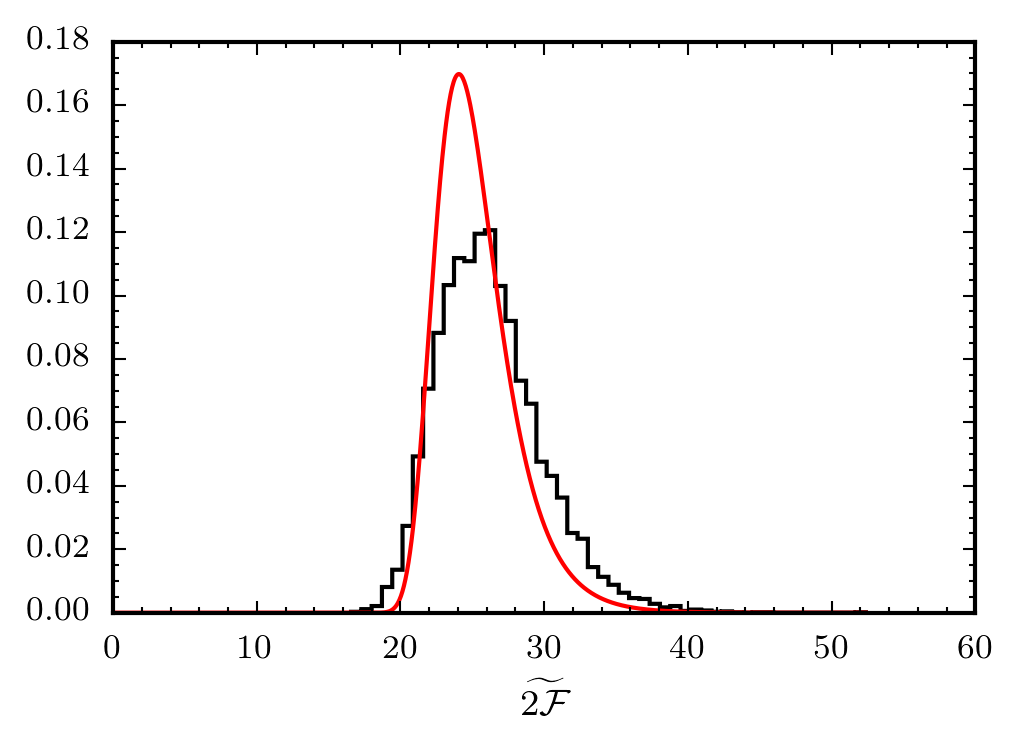
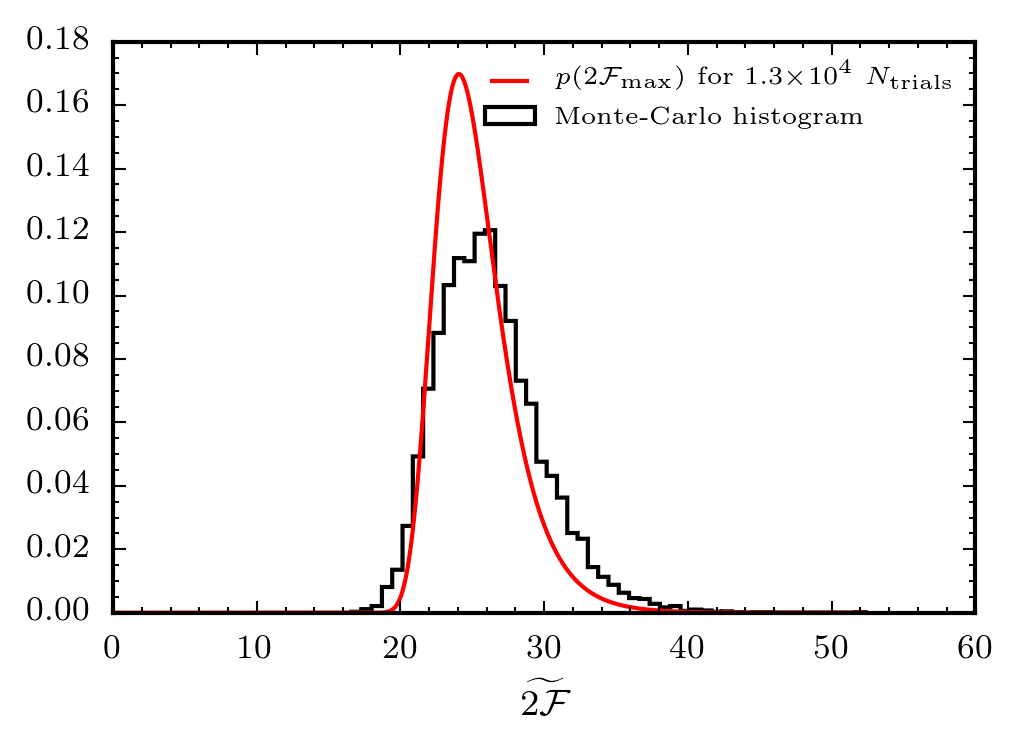
Adds labels to the noise MC plots

Changed region(s): [[0.4559, 0.092, 0.851, 0.184], [0.851, 0.092, 0.9422, 0.1227]]

diff --git a/Paper/AllSkyMCNoiseOnly/plot_data.py b/Paper/AllSkyMCNoiseOnly/plot_data.py
@@ -1,3 +1,4 @@
+import pyfstat
 import matplotlib.pyplot as plt
 import pandas as pd
 import numpy as np
@@ -34,12 +35,17 @@ print 'Number of samples = ', len(df)
 
 fig, ax = plt.subplots()
 
+ax.hist(df.twoF, bins=50, histtype='step', color='k', normed=True, linewidth=1,
+        label='Monte-Carlo histogram')
+
 maxtwoFinNoise = maxtwoFinNoise_gen(a=0)
 Ntrials_effective, loc, scale = maxtwoFinNoise.fit(df.twoF.values, floc=0, fscale=1)
 print 'Ntrials effective = {:1.2e}'.format(Ntrials_effective)
 twoFsmooth = np.linspace(0, df.twoF.max(), 1000)
 best_fit_pdf = maxtwoFinNoise.pdf(twoFsmooth, Ntrials_effective)
-ax.plot(twoFsmooth, best_fit_pdf, '-r')
+ax.plot(twoFsmooth, best_fit_pdf, '-r',
+        label=r'$p(2\mathcal{{F}}_{{\rm max}})$ for {} $N_{{\rm trials}}$'
+        .format(pyfstat.texify_float(Ntrials_effective, d=2)))
 
 pval = 1e-6
 twoFsmooth_HD = np.linspace(
@@ -48,11 +54,9 @@ best_fit_pdf_HD = maxtwoFinNoise.pdf(twoFsmooth_HD, Ntrials_effective)
 spacing = twoFsmooth_HD[1]-twoFsmooth_HD[0]
 print twoFsmooth_HD[np.argmin(np.abs(best_fit_pdf_HD - pval))], spacing
 
-ax.hist(df.twoF, bins=50, histtype='step', color='k', normed=True, linewidth=1)
-twoFsmooth = np.linspace(0, df.twoF.max(), 100)
-# ax.plot(twoFsmooth, maxtwoFinNoise(twoFsmooth, 8e5), '-r')
 ax.set_xlabel('$\widetilde{2\mathcal{F}}$')
 ax.set_xlim(0, 60)
+ax.legend(frameon=False, fontsize=6, loc=2)
 fig.tight_layout()
 fig.savefig('allsky_noise_twoF_histogram.png')
 

diff --git a/Paper/DirectedMCNoiseOnly/plot_data.py b/Paper/DirectedMCNoiseOnly/plot_data.py
@@ -1,3 +1,4 @@
+import pyfstat
 import matplotlib.pyplot as plt
 import pandas as pd
 import numpy as np
@@ -33,14 +34,17 @@ df = pd.concat(df_list)
 print 'Number of samples = ', len(df)
 
 fig, ax = plt.subplots()
-ax.hist(df.twoF, bins=50, histtype='step', color='k', normed=True, linewidth=1)
+ax.hist(df.twoF, bins=50, histtype='step', color='k', normed=True, linewidth=1,
+        label='Monte-Carlo histogram')
 
 maxtwoFinNoise = maxtwoFinNoise_gen(a=0)
 Ntrials_effective, loc, scale = maxtwoFinNoise.fit(df.twoF.values, floc=0, fscale=1)
 print 'Ntrials effective = {:1.2e}'.format(Ntrials_effective)
 twoFsmooth = np.linspace(0, df.twoF.max(), 1000)
 best_fit_pdf = maxtwoFinNoise.pdf(twoFsmooth, Ntrials_effective)
-ax.plot(twoFsmooth, best_fit_pdf, '-r')
+ax.plot(twoFsmooth, best_fit_pdf, '-r',
+        label=r'$p(2\mathcal{{F}}_{{\rm max}})$ for {} $N_{{\rm trials}}$'
+        .format(pyfstat.texify_float(Ntrials_effective, d=2)))
 
 pval = 1e-6
 twoFsmooth_HD = np.linspace(
@@ -51,6 +55,7 @@ print twoFsmooth_HD[np.argmin(np.abs(best_fit_pdf_HD - pval))], spacing
 
 ax.set_xlabel('$\widetilde{2\mathcal{F}}$')
 ax.set_xlim(0, 60)
+ax.legend(frameon=False, fontsize=6)
 fig.tight_layout()
 fig.savefig('directed_noise_twoF_histogram.png')
 
